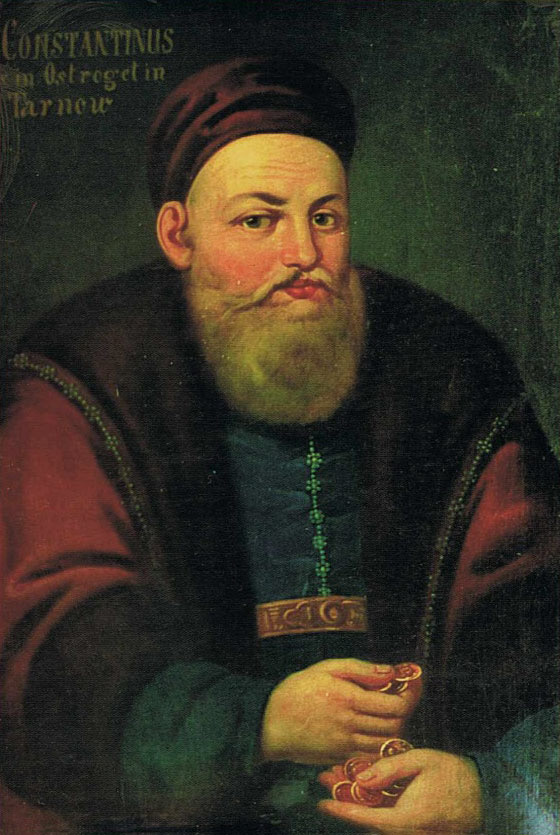
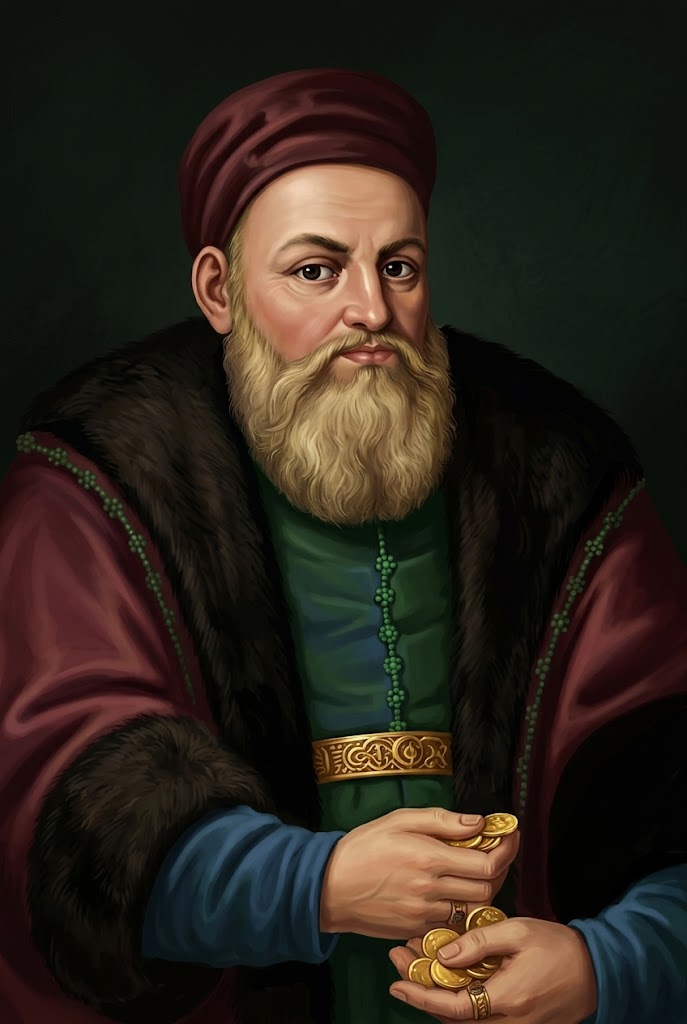
approve kostiantyn-vasyl ostrozkyi; restored portrait

diff --git a/src/content/people/uk/kostiantyn-vasyl-ostrozkyi.md b/src/content/people/uk/kostiantyn-vasyl-ostrozkyi.md
@@ -4,7 +4,7 @@ gender: male
 born: 1526-01-01
 born_circa: true
 died: 1608-02-29
-last_reviewed: 2026-10-21
+last_reviewed: 2026-10-31
 era: lithuanian-polish
 group: statehood
 tags: [politician]
@@ -20,11 +20,12 @@ places:
   - { name: "Острог", lat: 50.329, lon: 26.514, note: "резиденція з 1574 року; академія (бл. 1576), друкарня, Острозька Біблія (1581); тут помер і похований" }
 image:
   src: ./images/kostiantyn-vasyl-ostrozkyi.jpg
-  alt: "Портрет князя Костянтина-Василя Острозького: сивобородий чоловік у темно-червоній шапці й хутряному плащі тримає в руках золоті монети, вгорі латинський напис «Constantinus Dux in Ostrog et in Tarnow»"
+  alt: "Портрет князя Костянтина-Василя Острозького: бородатий чоловік у темно-червоній шапці, хутряному плащі й зеленому жупані із золотим поясом тримає в руках золоті монети"
   position: "50% 25%"
   author: "Теофіл Копистинський (копія XIX ст. з портрета XVI ст.)"
   license: "Public domain"
   source_url: "https://commons.wikimedia.org/wiki/File:Kanstantyn_Vasil_Astroski._Канстантын_Васіль_Астроскі_(XVI,_XIX).jpg"
+  ai_edit: restored
 key_accomplishments:
   - "Київський воєвода майже 50 років (1559–1608); староста володимирський і маршалок Волинської землі з 1550 року"
   - "Заснував Острозьку академію (бл. 1576), першу вищу школу в Україні, і Острозьку друкарню"
@@ -41,7 +42,8 @@ sources:
   - title: "ZAXID.NET - Євген Гулюк. «Олігархи» минулого. Хто вони і чому не все так однозначно (2024)"
     url: "https://zaxid.net/oligarhi_minulogo_n1583898"
 related: [kostiantyn-ostrozkyi, halshka-ostrozka, ivan-fedorov, severyn-nalyvaiko]
-status: draft
+status: approved
+published: 2026-10-31T01:31:55Z
 ---
 
 ## Василь, який став Костянтином

diff --git a/src/content/people/en/kostiantyn-vasyl-ostrozkyi.md b/src/content/people/en/kostiantyn-vasyl-ostrozkyi.md
@@ -11,7 +11,7 @@ key_accomplishments:
   - "Founded schools in Turiv (1572) and Volodymyr (1577) and a press at the Derman Monastery (1602)"
   - "Led the resistance to the 1596 Union of Brest"
 birthplace_name: "Dubno"
-image_alt: "Portrait of Prince Kostiantyn-Vasyl Ostrozkyi: a grey-bearded man in a dark red cap and fur-lined cloak holding gold coins, with the Latin inscription “Constantinus Dux in Ostrog et in Tarnow” at the top"
+image_alt: "Portrait of Prince Kostiantyn-Vasyl Ostrozkyi: a bearded man in a dark red cap, a fur-lined cloak and a green robe with a gold belt, holding gold coins"
 ---
 
 ## Vasyl who became Kostiantyn
